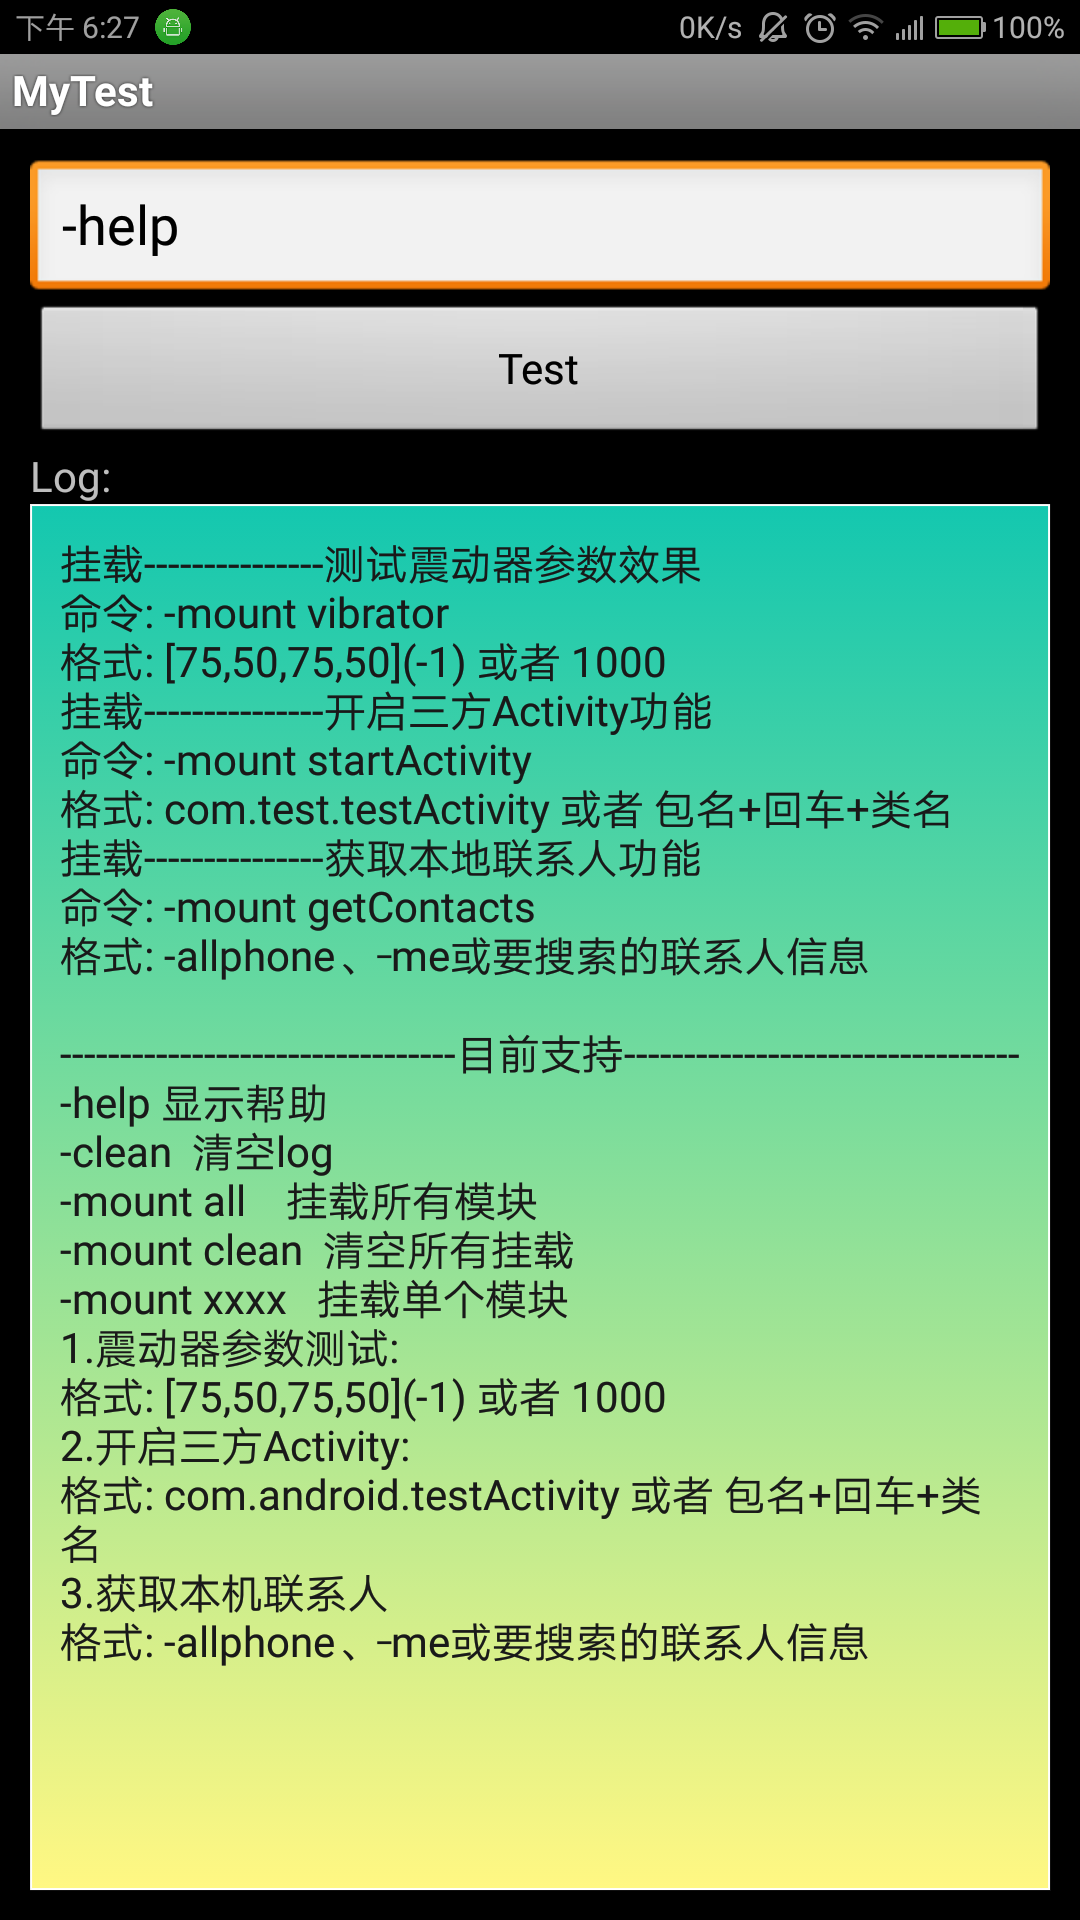
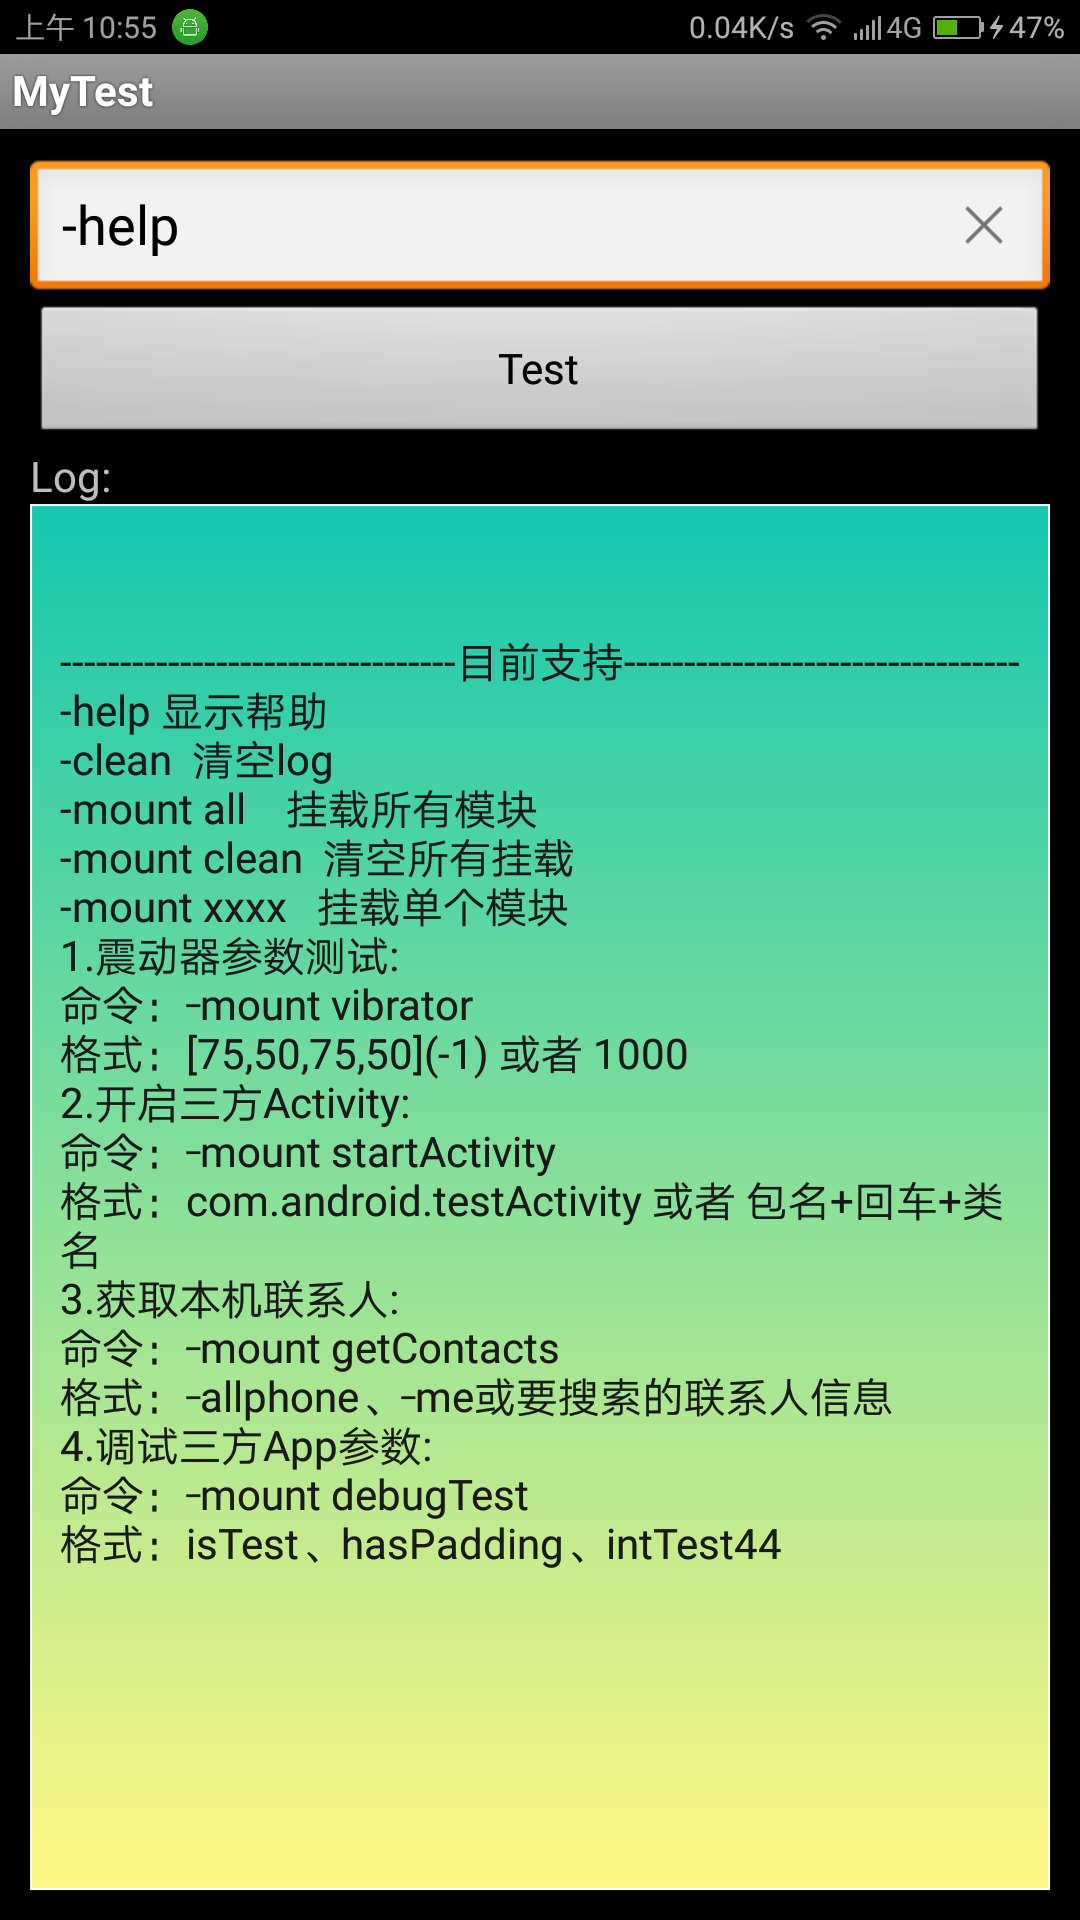
添加显示长dialog，修改help界面，截图。

diff --git a/src/com/smarttiger/mytest/ShowLongDialog.java b/src/com/smarttiger/mytest/ShowLongDialog.java
@@ -1,0 +1,35 @@
+package com.smarttiger.mytest;
+
+import android.app.Activity;
+import android.app.AlertDialog;
+import android.view.View;
+import android.view.Window;
+import android.view.WindowManager;
+
+public class ShowLongDialog {
+	
+	/** 显示一个可滚动的大Dialog */
+	public static void show(Activity activity) {
+		// TODO Auto-generated constructor stub
+
+		View view = activity.getLayoutInflater().inflate(R.layout.regulatory_info, null);
+		AlertDialog alert = new AlertDialog.Builder(activity)
+		.setTitle("Regulatory information")
+		.setView(view)
+        .show();
+		
+//		alert.getWindow().getDecorView().setPadding(0, 0, 0, 0); 
+//		WindowManager windowManager = getWindowManager();
+//		Display display = windowManager.getDefaultDisplay();
+//		WindowManager.LayoutParams lp = alert.getWindow().getAttributes();
+//		lp.width = (int)(display.getWidth()); //设置宽度
+//		alert.getWindow().setAttributes(lp);
+		
+		//缩小dialog的边间距。使dialog大一些。
+		Window win = alert.getWindow();
+		WindowManager.LayoutParams lp = win.getAttributes();
+		lp.width = WindowManager.LayoutParams.MATCH_PARENT;
+		lp.height = WindowManager.LayoutParams.WRAP_CONTENT;
+		win.setAttributes(lp);
+	}
+}

diff --git a/src/com/smarttiger/mytest/Help.java b/src/com/smarttiger/mytest/Help.java
@@ -16,17 +16,17 @@ public class Help {
 		main.showLog("-mount clean  清空所有挂载");
 		main.showLog("-mount xxxx   挂载单个模块");
 		main.showLog("1.震动器参数测试:");
-		main.showLog("-mount vibrator");
-		main.showLog("格式: [75,50,75,50](-1) 或者 1000");
+		main.showLog("命令：-mount vibrator");
+		main.showLog("格式：[75,50,75,50](-1) 或者 1000");
 		main.showLog("2.开启三方Activity:");
-		main.showLog("-mount startActivity");
-		main.showLog("格式: com.android.testActivity 或者 包名+回车+类名");
+		main.showLog("命令：-mount startActivity");
+		main.showLog("格式：com.android.testActivity 或者 包名+回车+类名");
 		main.showLog("3.获取本机联系人:");
-		main.showLog("-mount getContacts");
-		main.showLog("格式: -allphone、-me或要搜索的联系人信息 ");
+		main.showLog("命令：-mount getContacts");
+		main.showLog("格式：-allphone、-me或要搜索的联系人信息 ");
 		main.showLog("4.调试三方App参数:");
-		main.showLog("-mount debugTest");
-		main.showLog("格式: isTest、hasPadding、intTest44");
+		main.showLog("命令：-mount debugTest");
+		main.showLog("格式：isTest、hasPadding、intTest44");
 		
 	}
 	

diff --git a/src/com/smarttiger/mytest/MainActivity.java b/src/com/smarttiger/mytest/MainActivity.java
@@ -40,6 +40,7 @@ public class MainActivity extends Activity {
 //		mountAll();
 		
 		debugTest = new DebugTest(this);
+		
 	}
 	
 	private void initView() {
@@ -145,6 +146,8 @@ public class MainActivity extends Activity {
 			{
 				showLog("格式错误！");
 				help.showHelp();
+				
+//				ShowLongDialog.show(MainActivity.this);
 			}
 			
 			
